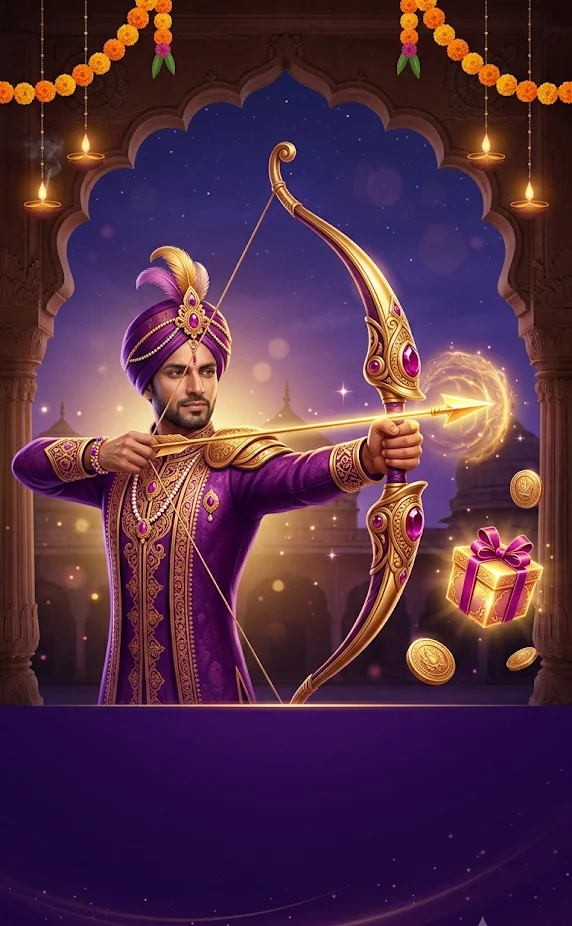
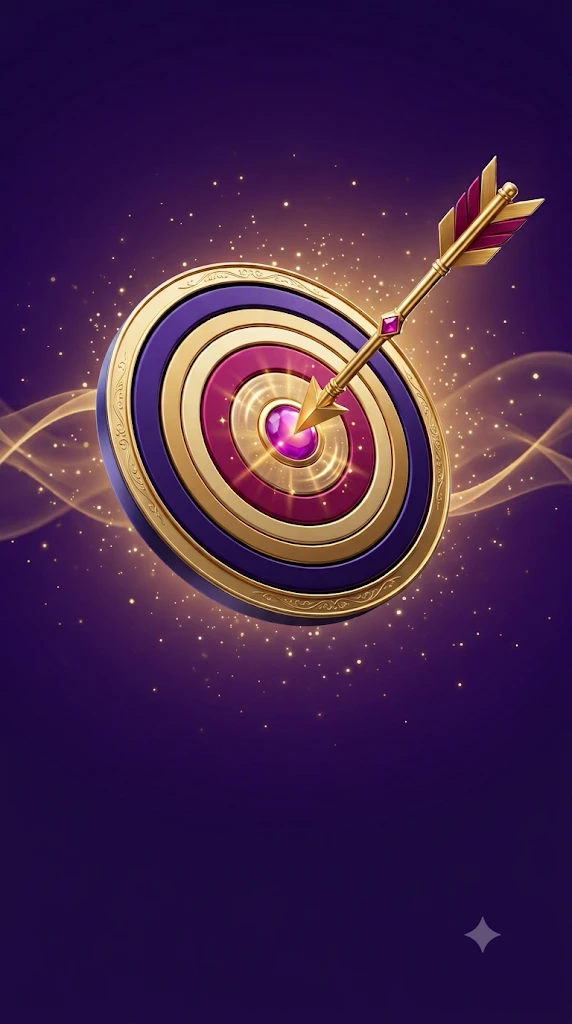
Replace landing hero with new target-and-arrow artwork from Figma
Swaps assets/images/hero.webp for the updated design (Figma node
129:1384) and retunes .hero__image's object-position accordingly.
Anchoring at 50% 40% (rather than a top anchor) keeps the artwork's
actual content band centered in the crop across viewport aspect
ratios — a top anchor cropped into empty background and hid the
target entirely on short/landscape viewports where the box becomes
width-bound instead of height-bound.

diff --git a/css/landing.css b/css/landing.css
@@ -27,7 +27,19 @@
   width: 100%;
   height: 100%;
   object-fit: cover;
-  object-position: 50% 15%;
+  /* New target-and-arrow artwork (Figma node 129:1384) is a tall 572x1024
+     source. On typical narrow/tall phone viewports this box is
+     height-bound (scales to fill height, crops only a sliver off the
+     sides), so vertical position barely matters there. But on short or
+     wide viewports (landscape phones, short windows) the box becomes
+     width-bound instead and crops vertically — a top-anchored position
+     (50% 0%) was cropping straight into empty background above the
+     artwork and hiding the whole target on short screens. The actual
+     target+arrow artwork sits roughly in the 20%-60% band of the source
+     image's height, so anchoring at 50% 40% keeps that band centered in
+     the visible crop across the widest range of viewport aspect ratios,
+     instead of only working for the tall-phone case. */
+  object-position: 50% 40%;
 }
 
 .hero__fade-top {

diff --git a/landing.html b/landing.html
@@ -30,7 +30,7 @@
 
     <div class="landing-stage">
       <div class="hero">
-        <img class="hero__image" src="assets/images/hero.webp" alt="Archer aiming a bow" width="572" height="926" />
+        <img class="hero__image" src="assets/images/hero.webp" alt="Archery target with a golden arrow" width="572" height="1024" />
         <div class="hero__fade-top"></div>
       </div>
 